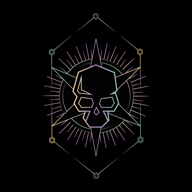
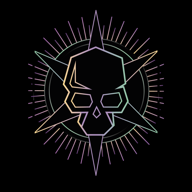
Icono de la app sin el marco (calavera, estrella, círculos y rayos); animaciones aunque el móvil pida reducir movimiento; service worker sin interceptar; rayos quietos y sin pantalla completa en el móvil

diff --git a/src/styles.css b/src/styles.css
@@ -1349,15 +1349,8 @@ button.badge:hover:not(:disabled) {
     width: calc(var(--table-card) * 0.6);
   }
 }
-@media (prefers-reduced-motion: reduce) {
-  *,
-  .rays,
-  .flow {
-    animation-duration: 0.01ms !important;
-    animation-iteration-count: 1 !important;
-    transition: none !important;
-  }
-}
+/* El ajuste del móvil de «reducir movimiento» no se tiene en cuenta: el juego se explica con sus animaciones. */
+
 
 /* ───── cambio de sentido: las flechas frenan, se dan la vuelta y arrancan hacia el otro lado ───── */
 .dirfx {
@@ -8104,4 +8097,11 @@ input[type="checkbox"]:focus-visible {
 }
 @media (orientation: portrait) and (max-width: 600px) {
   .callout { zoom: 0.8; }
+}
+
+/* Móvil: sin botón de pantalla completa (la app instalada ya va a pantalla completa) y sin los rayos girando
+   (un fondo enorme rotando cuesta mucho en el móvil). */
+@media (orientation: portrait) and (max-width: 600px), (orientation: landscape) and (max-height: 520px), (pointer: coarse) {
+  .fs-only, .fs-btn, .fs-btn2 { display: none !important; }
+  .rays { animation: none; }
 }

diff --git a/public/sw.js b/public/sw.js
@@ -1,4 +1,4 @@
-// Service worker mínimo para poder instalar el juego como app. No guarda nada en caché: todo va a la red como siempre.
+// Service worker mínimo para poder instalar el juego como app. No intercepta peticiones (todo va a la red como
+// siempre, sin pasar por aquí), así no añade ninguna espera.
 self.addEventListener('install', () => self.skipWaiting());
 self.addEventListener('activate', (e) => e.waitUntil(self.clients.claim()));
-self.addEventListener('fetch', () => {});

diff --git a/src/ui/Online.tsx b/src/ui/Online.tsx
@@ -50,7 +50,7 @@ function HomeBg() {
   useEffect(() => {
     const el = ref.current;
     if (!el) return;
-    const still = matchMedia('(prefers-reduced-motion: reduce)').matches;
+    const still = false; // se mueve aunque el móvil pida reducir el movimiento
     let size = { w: 0, h: 0, vw: 0, vh: 0 };
     const layout = () => {
       const vw = innerWidth, vh = innerHeight;
